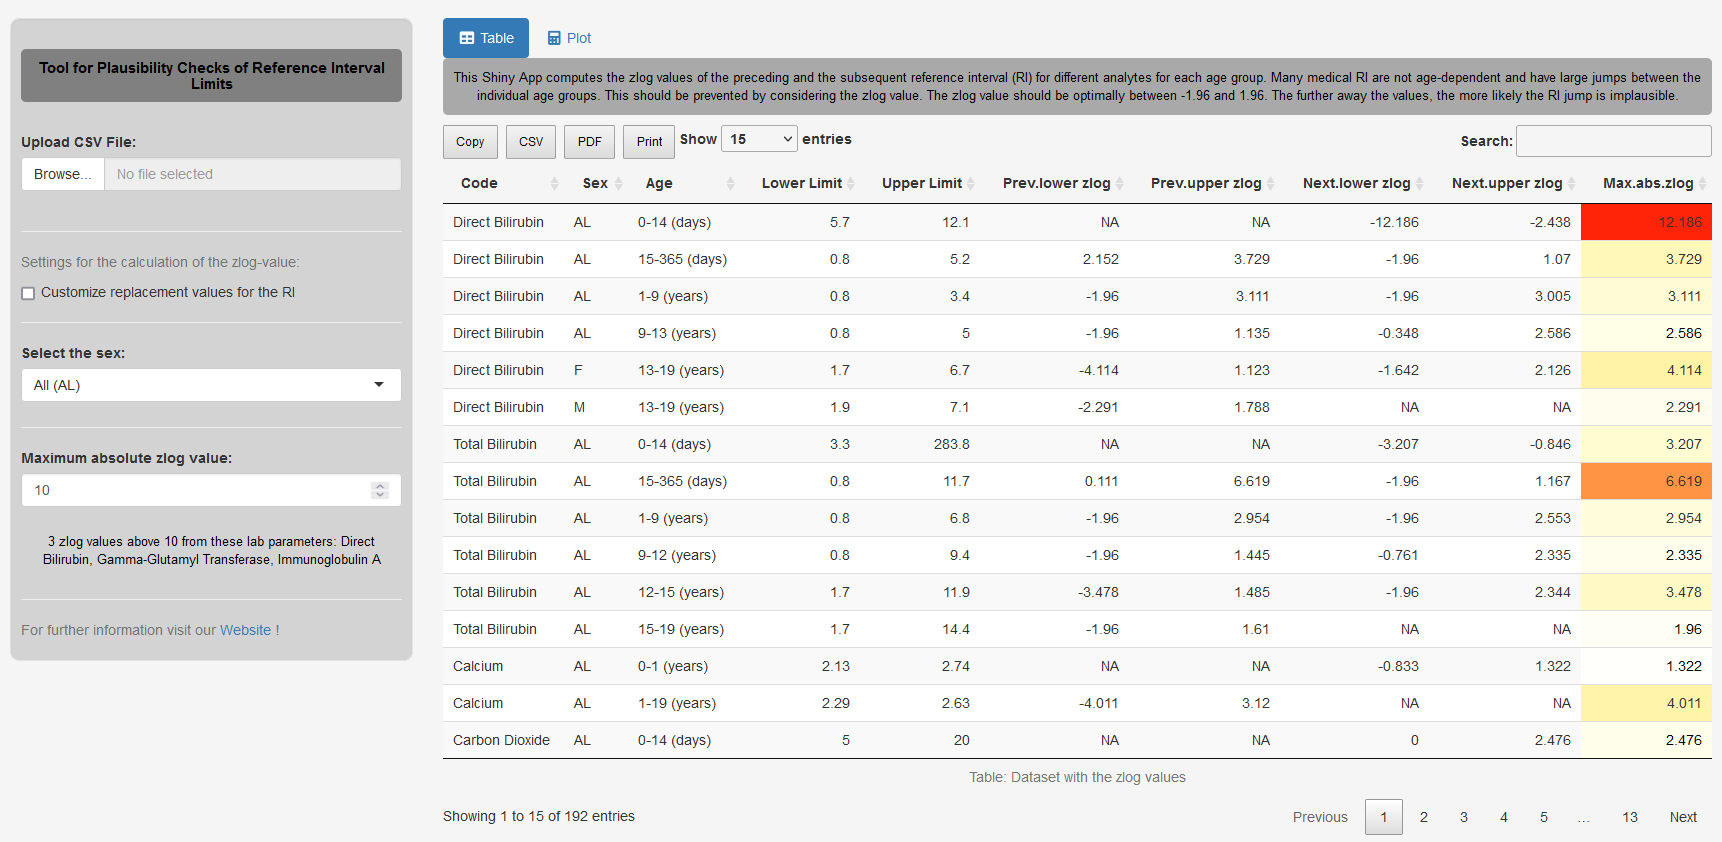
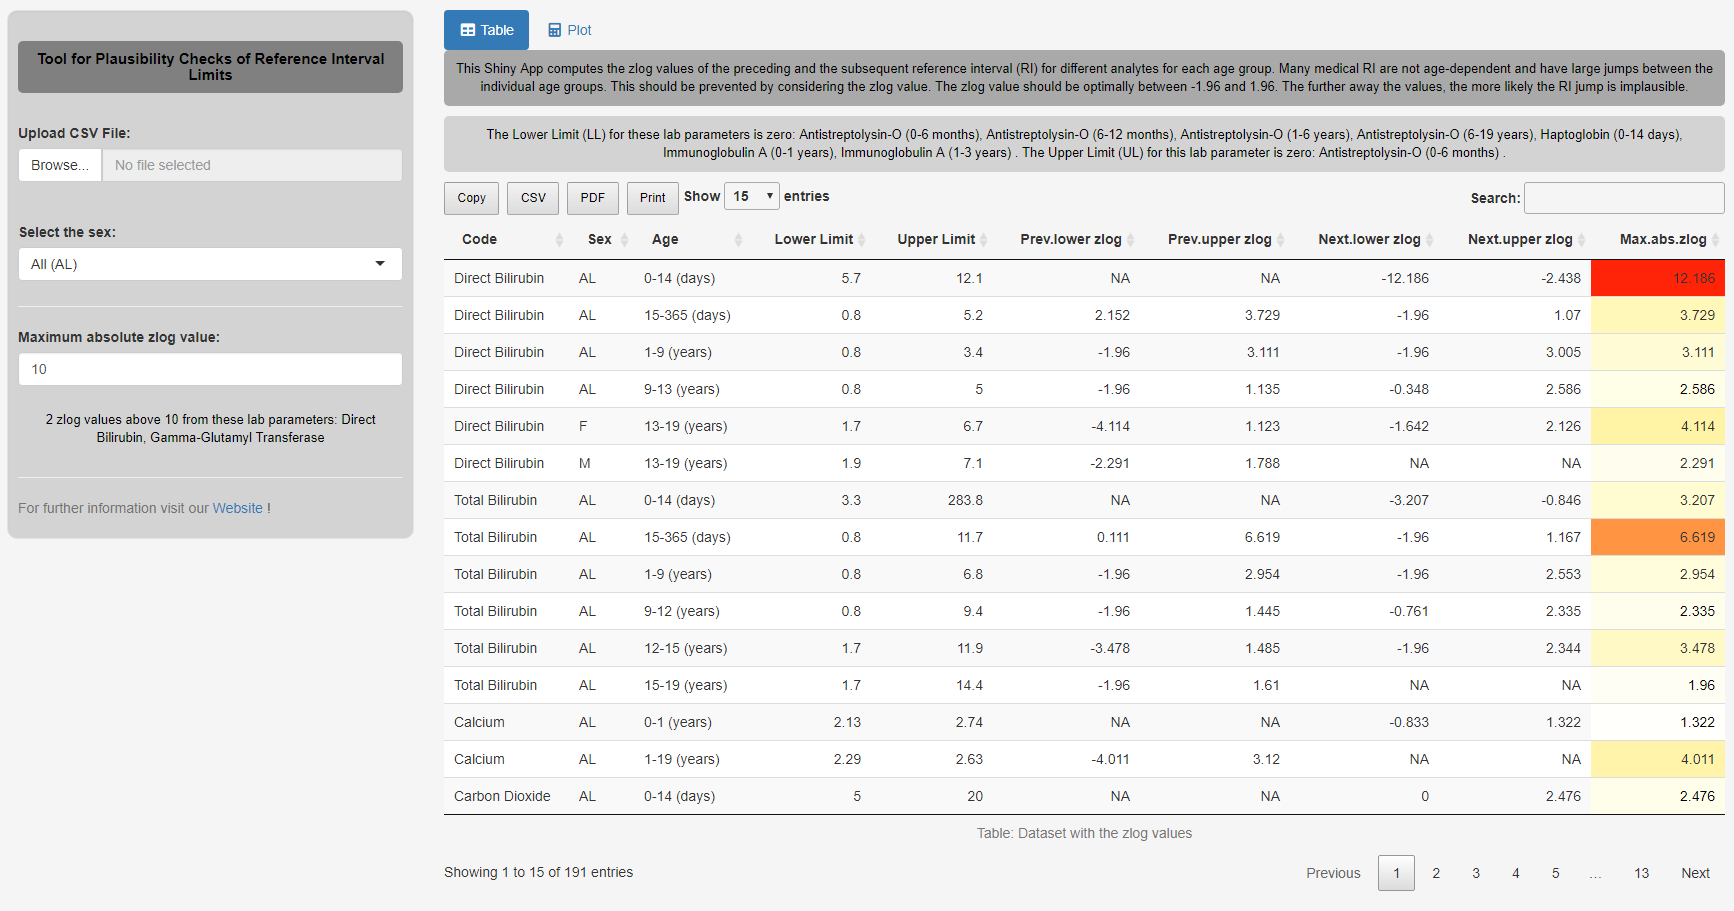
Deletion of the possibility to specify replacement values

diff --git a/docs/guide.md b/docs/guide.md
@@ -15,21 +15,21 @@ For new data use the [CALIPER-Dataset](https://github.com/SandraKla/Zlog_AdRI/bl
 * **LowerLimit**: Start of the reference interval (LL)
 * **UpperLimit**: Start of the reference interval (UL)
 
+If information about the lower or upper limit is missing, the info is displayed and the values can be added to the dataset (if available) and reloaded into this Shiny App. The lower limit is set to NA if it is zero. When the upper value is missing, the datapoints is then not considered in the calculation.
+
+<img src="shiny_caution.png" text-align="center" style="width:300px;"/>
+
 ### Settings
 
 1)	Upload the CSV File with own reference intervals. 
 
-2)	Customize the replacement values for the RI: If the lower reference limit is zero, it will be set to 0.001 and the upper reference limit to 100 or by own given reference limits.
+2)	Select the sex
 
-<img src="shiny_replace.png" text-align="center" style="width:300px;"/>
+3)	In Plot: Select the lab parameter
 
-3)	Select the sex
+4)	In Plot: Select if the x-axis should be logarithmic
 
-4)	In Plot: Select the lab parameter
-
-5)	In Plot: Select if the x-axis should be logarithmic
-
-6)	Select the maximum zlog value for quick determination of very high zlog values (Example with the preloaded CALIPER-Dataset)
+5)	Select the maximum zlog value for quick determination of very high zlog values (Example with the preloaded CALIPER-Dataset)
 
 <img src="shiny_high_zlog.png" text-align="center" style="width:300px;"/>
 <br>
